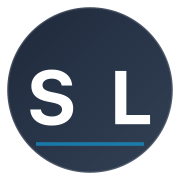
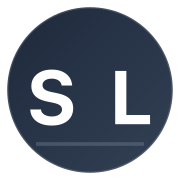
Redesign with minimal professional aesthetic (Apple/Google inspired)
Design Philosophy:
- Moved from colorful (amber/sky blue) to minimal slate gray scheme
- Inspired by Apple, Google, and top research institutions
- Focus on typography, whitespace, and subtle shadows
- Professional, timeless, and highly readable

Key Changes:
- Primary color: #334155 (slate gray) - professional and timeless
- Backgrounds: Simple #fafafa instead of gradients - cleaner
- Shadows: Reduced opacity for subtlety (0.05-0.12 vs 0.08-0.2)
- Tags: Light gray with minimal borders - less visual noise
- Removed all emojis from openings page - more professional
- Updated all color references across 12 files for consistency
- Favicon: Slate accent line instead of bright blue

Result: Clean, minimal, professional design that lets content shine.
Typography and hierarchy are the main design elements, not color.

🎨 Generated with [Claude Code](https://claude.com/claude-code)

Changed region(s): [[0.1944, 0.7778, 0.8056, 0.8333]]

diff --git a/styles.scss b/styles.scss
@@ -5,14 +5,14 @@
 $font-family: "Crimson Pro", serif;
 $font-family-serif: "Crimson Pro", serif;
 
-/* CSS Custom Properties for theming - Clean & Minimal */
+/* CSS Custom Properties for theming - Minimal Professional */
 :root {
-  /* Primary palette - Clean, modern, professional */
-  --primary-color: #0ea5e9; /* Sky blue - clean and modern */
-  --secondary-color: #14b8a6; /* Teal - fresh and professional */
-  --accent-color: #8b5cf6; /* Purple - subtle accent */
-  --accent-warm: #06b6d4; /* Cyan accent */
-  --accent-cool: #0891b2; /* Darker cyan */
+  /* Primary palette - Apple/Google inspired minimal design */
+  --primary-color: #334155; /* Slate gray - professional and timeless */
+  --secondary-color: #475569; /* Medium slate - subtle variation */
+  --accent-color: #64748b; /* Light slate - very subtle accent */
+  --accent-warm: #0f172a; /* Almost black - for emphasis */
+  --accent-cool: #1e293b; /* Dark slate */
 
   /* Text colors */
   --text-primary: #1e293b;
@@ -31,12 +31,12 @@ $font-family-serif: "Crimson Pro", serif;
   --border-medium: #cbd5e0;
   --border-accent: #fbbf24;
 
-  /* Shadows with depth */
-  --shadow-light: 0 2px 8px rgba(14, 165, 233, 0.08);
-  --shadow-medium: 0 4px 20px rgba(14, 165, 233, 0.12);
-  --shadow-heavy: 0 16px 40px rgba(14, 165, 233, 0.2);
-  --shadow-glow-warm: 0 0 30px rgba(6, 182, 212, 0.4);
-  --shadow-glow-cool: 0 0 30px rgba(14, 165, 233, 0.4);
+  /* Shadows with depth - minimal, professional */
+  --shadow-light: 0 1px 3px rgba(0, 0, 0, 0.05);
+  --shadow-medium: 0 4px 12px rgba(0, 0, 0, 0.08);
+  --shadow-heavy: 0 8px 24px rgba(0, 0, 0, 0.12);
+  --shadow-glow-warm: 0 0 30px rgba(0, 0, 0, 0.1);
+  --shadow-glow-cool: 0 0 30px rgba(0, 0, 0, 0.08);
 
   /* Radius */
   --radius-small: 6px;
@@ -352,12 +352,11 @@ body {
     text-align: center;
     padding: 80px 20px 60px;
     margin-bottom: 60px;
-    background: linear-gradient(to bottom,
-      rgba(14, 165, 233, 0.02) 0%,
-      rgba(255, 255, 255, 0) 100%);
+    background: #fafafa;
     border-radius: var(--radius-large);
     overflow: hidden;
     animation: fadeIn 0.8s var(--transition-smooth);
+    border: 1px solid var(--border-light);
 }
 
 div.hero-section h1 {
@@ -564,21 +563,22 @@ div.hero-section h1 {
 
 .tag {
     font-family: 'Outfit', sans-serif;
-    background: rgba(14, 165, 233, 0.08);
-    color: var(--primary-color);
+    background: #f1f5f9;
+    color: var(--text-secondary);
     padding: 4px 12px;
     border-radius: 16px;
     font-size: 0.8rem;
     font-weight: 500;
-    border: 1px solid rgba(14, 165, 233, 0.15);
+    border: 1px solid #e2e8f0;
     transition: all var(--transition-fast);
     letter-spacing: 0.01em;
     white-space: nowrap;
 }
 
 .tag:hover {
-    background: rgba(14, 165, 233, 0.12);
+    background: #e2e8f0;
     border-color: var(--primary-color);
+    color: var(--text-primary);
     transform: translateY(-1px);
 }
 
@@ -622,14 +622,13 @@ div.hero-section h1 {
 }
 
 .join-section {
-    background: linear-gradient(to bottom,
-      rgba(14, 165, 233, 0.02) 0%,
-      rgba(255, 255, 255, 0) 100%);
+    background: #fafafa;
     color: var(--text-primary);
     text-align: center;
     padding: 50px 40px;
     border-radius: var(--radius-large);
     margin: 60px 0;
+    border: 1px solid var(--border-light);
 }
 
 .join-section h2 {
@@ -930,9 +929,7 @@ div.hero-section h1 {
 }
 
 .alumni-banner {
-    background: linear-gradient(to bottom,
-      rgba(14, 165, 233, 0.04) 0%,
-      rgba(255, 255, 255, 0) 100%);
+    background: #fafafa;
     color: var(--text-primary);
     text-align: center;
     padding: 40px 30px;
